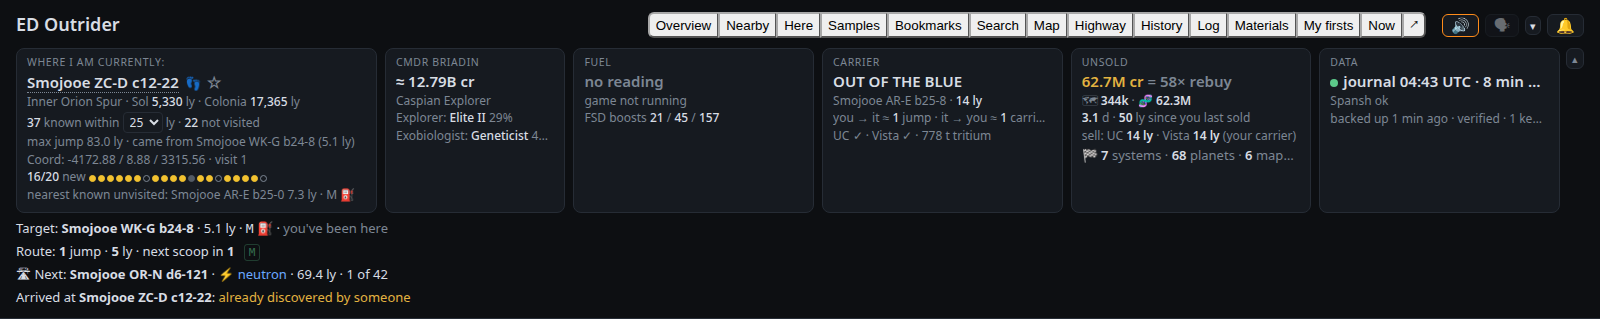
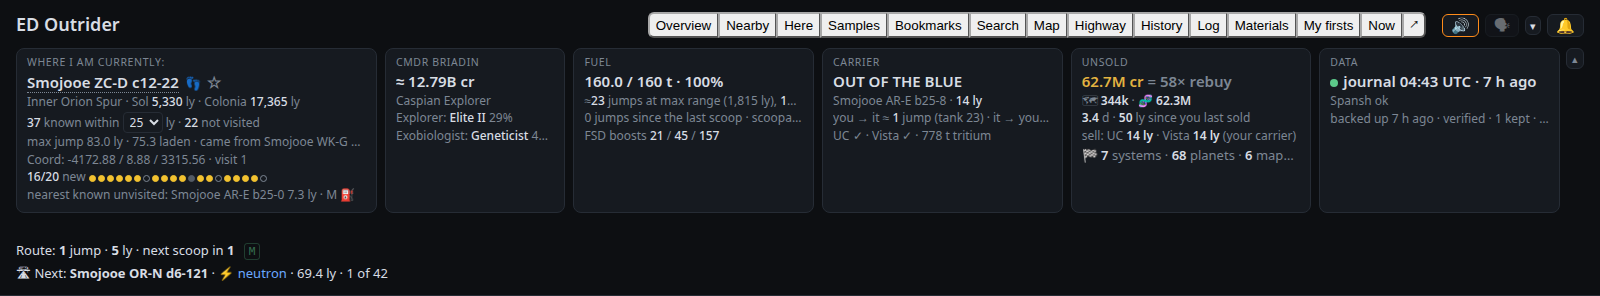
Here's bio column stays readable; --simulate for screenshots
- Here: a bio item ("Bacterium 3/3 ✓ 38.9M") no longer breaks inside
  itself, and a compact table shows a codex entry as 📖 ✦ with the name in
  its tooltip, so a body's row no longer grows to seven lines beside an
  open panel.
- --simulate: the panels show the last known values as if the game were
  running (fuel from the last reading, else the last jump, else a full
  tank; the Data tile doesn't flag the old journal). Display only: every
  guard reads the real Status.json, and the virtual keyboard, co-pilot
  button and clipboard are off.
- Screenshots regenerated with --simulate; docs updated.

diff --git a/tests/page_smoke.js b/tests/page_smoke.js
@@ -750,6 +750,14 @@ const base = `http://127.0.0.1:${port}/`; const sleep = ms => new Promise(r => s
       // F34: the codex mark names the region it is given
       o.region = bodyPopHtml({name: "B 1", type: "Planet", bio: 1, genera: [], organics: [], bio_guess: [],
         bio_options: {low: 1, high: 2, genera: [{genus: "Bacterium", value: 2, species: ["Aurasus"], codex_new: true}]}}, "Norma Arm").includes("new to your codex in Norma Arm");
+      // --simulate: the game reads as running with an hours-old journal, which is no fault (no red Data tile)
+      const fz = data.freshness, fst = data.status, oldJ = new Date(Date.now() - 5 * 3600000).toISOString();
+      data.status = "";   // offline here: "Spansh failed" would colour the tile whatever the journal's age
+      data.freshness = Object.assign({}, fz, {journal: oldJ, live: true, simulated: true}); renderStrip();
+      const simCls = document.getElementById("tData").className;
+      data.freshness = Object.assign({}, fz, {journal: oldJ, live: true, simulated: false}); renderStrip();
+      o.simFresh = !/urgent/.test(simCls) && /urgent/.test(document.getElementById("tData").className);
+      data.freshness = fz; data.status = fst; renderStrip();
       // F30, F33: a run under way prices the logged species; gravity reds at your high-g level
       const hd = hereData, hk = hereKey, hg = localStorage.getItem("highG");
       if (hd && !hd.error) {
@@ -758,14 +766,19 @@ const base = `http://127.0.0.1:${port}/`; const sleep = ms => new Promise(r => s
         const fake = Object.assign({}, b0, {name: "Fake 1", type: "Planet", subtype: "Rocky body", gravity: 1.8, bio: 1, genera: ["Stratum"],
           organics: [{genus: "Stratum", species: "Stratum Paleas", samples: 1, done: false, lost: false, value: 1362000}],
           bio_guess: [{genus: "Stratum", best: "Stratum Tectonicas", species: ["Stratum Tectonicas"], value: 19010800}],
-          value_parts: {bio_factor: 1}, codex: [], curiosities: [], geo: 0});
+          value_parts: {bio_factor: 1}, codex: [{name: "Stratum Paleas - Teal", new: true}], curiosities: [], geo: 0});
         hereData = Object.assign({}, hd, {bodies: [fake], tree: null}); renderHere();
         const row = document.querySelector('#hereRows tr[data-body="Fake 1"]');
+        // a bio item never breaks inside itself; the codex name has a short form of just 📖 ✦ for a compact table
+        const sps = row ? [...row.querySelectorAll("td.bio .sp")] : [], cx = sps.find(e => /^codex/.test(e.title));
+        o.hereWrap = sps.length >= 2 && sps.every(e => getComputedStyle(e).whiteSpace === "nowrap") && !!cx
+          && cx.title === "codex: Stratum Paleas - Teal" && cx.querySelector(".lf").textContent === "Stratum Paleas - Teal"
+          && cx.querySelector(".sf").textContent === "" && /✦/.test(cx.textContent);
         o.here = !!row && row.textContent.includes("1.4M") && !row.textContent.includes("Tectonicas?") && !row.textContent.includes("19.0M")
           && row.querySelectorAll("td")[3].classList.contains("noscoop");
         if (hg === null) localStorage.removeItem("highG"); else localStorage.setItem("highG", hg);
         hereData = hd; hereKey = hk; renderHere();
-      } else o.here = "no Here data";
+      } else { o.hereWrap = "no Here data"; o.here = "no Here data"; }
       // F39: injections at cap: nothing is "limiting"; 3 left: the short material is
       const md = matData;
       const mat = craftable => ({rows: [{id: "polonium", name: "Polonium", count: craftable, cap: 150}], snapshot_ts: "2026-01-01T00:00:00Z", ts: "2026-01-01T00:00:00Z",
@@ -845,7 +858,7 @@ const base = `http://127.0.0.1:${port}/`; const sleep = ms => new Promise(r => s
     w.setTimeout = realST; w.fetch = realFetch;
     w.eval("search = null; searchWant = 0; searchRefused = false; render()");
     w.speak = realSpeak; w.play = realPlay;
-    const want = {unwarned: null, kept: true, outage: true, spacing: true, spacing2: true, region: true, here: true, mat: true,
+    const want = {unwarned: null, kept: true, outage: true, spacing: true, spacing2: true, region: true, simFresh: true, hereWrap: true, here: true, mat: true,
                   streak: 2, nulls: ["{}", "ts"], impNull: "bioSort", saved: true, dock: "2026-01-01T01:00:00Z", hlRender: true, more: true};
     const want2 = {onbody: true, here: true, logError: null};
     const goodH = JSON.stringify(out) === JSON.stringify(want) && JSON.stringify(out2) === JSON.stringify(want2)

diff --git a/static/page.js b/static/page.js
@@ -393,7 +393,8 @@ function renderStrip() {
   let dot = "", text = "", tcls = "";
   if (fr && fr.journal) {
     const age = Math.max(0, (Date.now() - Date.parse(fr.journal)) / 60000);
-    const cls = fr.live && age > 10 ? "bad" : fr.live && age > 3 ? "warn" : "";
+    // a quiet journal with the game running is a fault; under --simulate (screenshots) the journal is old by design
+    const stale = fr.live && !fr.simulated, cls = stale && age > 10 ? "bad" : stale && age > 3 ? "warn" : "";
     dot = cls; tcls = cls === "bad" ? "urgent" : cls;
     text = `journal ${esc(fr.journal.slice(11, 16))} UTC` + (age >= 1 ? ` · ${age < 90 ? Math.round(age) + " min" : Math.round(age / 60) + " h"} ago` : "") + (fr.live ? "" : " · game off");
   } else text = fr && !fr.dirs.length ? "no journal folder — pass --journals" : "waiting for a journal";
@@ -2605,7 +2606,8 @@ function renderHere() {
       bio.push((bio.length ? "<br>" : "") + `<span class="unk">${dual(unk.label, unkShort)}</span>` + (gl.length
         ? `<br><span class="unk">${opt ? dual(`${optLabel(unk.n, opt, f)}: `, `${credits(opt.low * f)}–${credits(opt.high * f)}: `) : dual("likely: ", "", {title: false})}</span>${gl.map(x => `<span class="sp" title="${esc(x.species.join(" / "))}">${esc(x.genus)} ≤${credits((x.value || 0) * f)}${codexMark(x, h.region)}</span>`).join(opt ? `<span class="unk"> or </span>` : "")}` : ""));
     }
-    const codex = b.codex.map(c => `<span class="sp" title="codex">📖 ${esc(c.name)}${c.voucher ? " 💰" : c.new ? " ✦" : ""}</span>`).join("");
+    // the codex name ("Bacterium Volu - Gold") repeats the run's species: a compact table shows only 📖 and its mark
+    const codex = b.codex.map(c => `<span class="sp" title="codex: ${esc(c.name)}">📖 ${dual(esc(c.name), "", {title: false})}${c.voucher ? " 💰" : c.new ? " ✦" : ""}</span>`).join("");
     const firsts = [b.first_discovered && `<span class="fl" title="first discovered">🏁</span>`, b.first_mapped && `<span class="fl" title="first mapped">🗺</span>`,
                     !b.first_mapped && b.mapped && `<span class="fl unk" title="mapped (not first)">🗺</span>`,
                     b.first_footfall && `<span class="fl" title="first footfall">👣</span>`, !b.scanned && `<span class="unk" title="known to Spansh, not scanned by you">—</span>`].filter(Boolean).join("");

diff --git a/static/page.css b/static/page.css
@@ -64,7 +64,7 @@ tr.scoopnext td.name::after { content: " ⛽ nearest scoopable"; color: var(--go
 #hereHead { font-size: 15px; margin: 12px 0 4px; } #hereHead b { color: var(--accent); }
 #hereLeaving { font-size: 13px; margin-bottom: 8px; } #hereLeaving .ok { color: var(--good); } #hereLeaving .todo { color: var(--warn); }
 #hereTable td.bio { white-space: normal; font-size: 12px; max-width: 320px; }
-#hereTable .sp { display: inline-block; margin-right: 6px; } #hereTable .sp.done { color: var(--good); } #hereTable .sp.part { color: var(--warn); }
+#hereTable .sp { display: inline-block; margin-right: 6px; white-space: nowrap; }   /* "Bacterium 3/3 ✓ 38.9M" wraps between items, not inside one */ #hereTable .sp.done { color: var(--good); } #hereTable .sp.part { color: var(--warn); }
 #hereTable .fl { margin-right: 4px; }
 tr.main td { font-weight: 500; }
 #histView { margin-top: 12px; } #histView .exports a { color: var(--info); }

diff --git a/ed_outrider.py b/ed_outrider.py
@@ -102,7 +102,8 @@ reported to Spansh or EDSM -- almost certainly undiscovered.
 Journal folders are auto-detected (Windows save folder, every Steam library's Proton prefix,
 mounted Windows drives for older journals); --journals / --legacy / ED_JOURNALS override. Files
 are remembered by path and byte offset, so a restart only reads what is new; legacy folders are
-imported once. Pass --rescan to rebuild everything from scratch.
+imported once. Pass --rescan to rebuild everything from scratch. --simulate (screenshots, demos) shows the
+panels as if the game were running, with the last known values, and keeps every key-pressing part off.
 
 Settings come from ed_outrider.toml next to this script (see ed_outrider.toml.example; make one with
 --write-config); flags and ED_JOURNALS override it, and nothing is required. Relative paths in it are
@@ -382,6 +383,18 @@ class ScoopWatch:
 def fire_group_letter(group):
     """Status.json FireGroup (0, 1, ...) as the letter the game shows (A, B, ...); None when unknown."""
     return chr(65 + group) if isinstance(group, int) and not isinstance(group, bool) and 0 <= group < 26 else None
+
+
+def simulate_settings(st):
+    """--simulate (screenshots and demos): the settings with the co-pilot button and the clipboard off."""
+    return dict(st, copilot=dict(st["copilot"], enabled=False), highway=dict(st["highway"], clipboard=False))
+
+
+def simulate_keyboard_off(honker):
+    """--simulate: no virtual keyboard at all, so every open, press, test and auto-target run is refused (the page
+    acts as if the game were running, and nothing may press a key into whatever window has focus)."""
+    honker.evdev, honker.status = None, "off (--simulate)"
+    return honker
 
 
 def status_fresh(status, now):
@@ -4855,6 +4868,7 @@ class State:
         self.sounds = outrider.tts.SoundBank()   # static/sounds.json rendered to WAV for it
         self.speech = None         # outrider.speech.SpeechLines, set at start (None in tests)
         self.honker = None         # outrider.honk.Honker, set at start (None in tests)
+        self.simulate = False      # --simulate: the panels act as if the game were running (shown_status)
         self.button = None         # outrider.button.ButtonWatch when [copilot] enabled (None otherwise and in tests)
         # the voice's hush ({mode, until, sys}): here, not per browser, so the co-pilot button, a tablet and the
         # window that is speaking all see the same one. In memory only: a restart ends it
@@ -5013,7 +5027,8 @@ class State:
             # read: moves with every journal line consumed (the Log tails on it; journal is to the second)
             "freshness": {"journal": self.journals.last_event_ts, "read": sum(self.journals.offsets.values()),
                           "status": (self.journals.status_json or {}).get("ts"),
-                          "live": bool((self.journals.status_json or {}).get("live")),
+                          "live": bool(self.shown_status().get("live")),
+                          "simulated": bool(self.shown_status().get("simulated")),   # --simulate: an old journal is no fault
                           "dirs": LIVE_DIRS, "legacy": LEGACY_DIRS},
             "docked": self.docked_summary(),
             # the last Docked event's ts even while Status.json says you are not docked (out in the SRV at a
@@ -5930,11 +5945,28 @@ class State:
                 "boosts": outrider.materials.boosts(m["counts"]), "count": sum(m["counts"].values()),
                 "stale": materials_stale(m, self.journals.commander)}
 
+    def shown_status(self):
+        """Status.json as the panels show it. With --simulate (screenshots, demos) and the game not running: the last
+        known values as if it were, in the ship's seat, with the fuel of the last reading, else of the last jump, else
+        a full tank. Only the display reads this; auto honk, auto-target, the scoop and surface checks and every other
+        guard read the real Status.json (and --simulate turns the virtual keyboard off besides)."""
+        j = self.journals
+        st = j.status_json or {}
+        if not self.simulate or st.get("live"):
+            return st
+        fuel = st.get("fuel_main")
+        if fuel is None:   # the last jump's FuelLevel: fuel_hist rows are [jump ly, fuel t, fuel left t, cargo t]
+            fuel = next((h[2] for h in reversed(j.fuel_hist) if len(h) > 2 and h[2] is not None), None)
+        if fuel is None:
+            fuel = (j.ship or {}).get("fuel_main")
+        return dict(st, live=True, simulated=True, fuel_main=fuel, away=None, vehicle_fuel=None,
+                    flags=st.get("flags") or (1 << 24))   # InMainShip
+
     def fuel_now(self):
         """(model, fuel t, cargo t) for the fuel model right now, or None: no Loadout mass, no reading, or no cargo
         figure (Status.json's, else the journal's Cargo). The cargo counts, since a hold of 700 t cuts the range."""
         j = self.journals
-        st = j.status_json or {}
+        st = self.shown_status()
         model = fuel_model(j.ship, j.fuel_hist)
         cargo = st.get("cargo") if st.get("cargo") is not None else (j.cargo or {}).get("count")
         if not model or st.get("fuel_main") is None or cargo is None:
@@ -6013,7 +6045,7 @@ class State:
 
     def fuel_summary(self):
         j = self.journals
-        st, ship = j.status_json, j.ship or {}
+        st, ship = self.shown_status(), j.ship or {}
         if not st or st.get("fuel_main") is None:   # no reading yet (or on foot before any)
             return {"live": False}
         cap = ship.get("fuel_main")
@@ -10474,11 +10506,18 @@ async def run(args, st):
         "off ([speech] server_player)" if state.player.choice == "off" else
         f"{st['server_player']} not found" if state.player.choice != "auto" else
         "no player found (pw-play, paplay, aplay or ffplay)")))
+    state.simulate = bool(getattr(args, "simulate", False))
+    if state.simulate:
+        st = simulate_settings(st)
+        print("simulate: the panels show the last known values as if the game were running; auto honk, auto-target, "
+              "the co-pilot button and the clipboard are off")
     state.autohonk = dict(st["autohonk"])
     saved = meta_get(db, "autohonk_enabled")   # the page's toggle beats the config file once used
     if saved is not None:
         state.autohonk["enabled"] = bool(saved)
     state.honker = outrider.honk.Honker(state.autohonk["key"], state.autohonk["hold"], LIVE_DIRS)
+    if state.simulate:
+        simulate_keyboard_off(state.honker)
     if state.autohonk["enabled"]:
         state.honker.open()
     print("auto honk: " + (state.honker.status if state.autohonk["enabled"] else "off")
@@ -10611,6 +10650,9 @@ def main(argv=None):
                    help="Put the database (and browser_defaults.json) back from a backup zip, the newest in "
                         "backup_dir if none is given, and exit. Refuses while Outrider is running; the current "
                         "database is kept as <db>.pre-restore-<stamp>.")
+    p.add_argument("--simulate", action="store_true",
+                   help="For screenshots and demos: the panels show the last known values (fuel...) as if the game "
+                        "were running. Auto honk, auto-target, the co-pilot button and the clipboard are off.")
     p.add_argument("--list-backups", action="store_true",
                    help="List this database's backup zips in backup_dir (name, size, time) and exit.")
     args = p.parse_args(argv)

diff --git a/tests/test_units.py b/tests/test_units.py
@@ -4042,6 +4042,47 @@ class BatchAIntegrity(unittest.TestCase):
         self.assertEqual((st["fuel_main"], st["cargo"], st["away"]), (150.2, 3, None))
         self.assertIsNone(st["vehicle_fuel"])
 
+    def test_simulate_shows_the_last_values_as_live(self):
+        """--simulate (screenshots): with the game closed the panels read as live, with the last jump's fuel, while
+        the real Status.json, which every guard reads, still says the game is not running."""
+        state = ed_outrider.State(self.db, self.j, None, 25)
+        self.j.status_json = {"live": False, "ts": "2026-10-02T00:00:00Z"}
+        self.j.ship = {"fuel_main": 160}
+        self.j.fuel_hist = [[40.0, 2.0, 150.5, 0], [42.0, 2.2, 148.3, 0]]
+        self.assertFalse(state.fuel_summary()["live"])                      # off: the truth
+        self.assertFalse(state.payload()["freshness"]["live"])
+        state.simulate = True
+        f = state.fuel_summary()
+        self.assertEqual((f["live"], f["main"], f["pct"], f["in_ship"], f["vehicle"]), (True, 148.3, 93, True, None))
+        self.assertTrue(state.payload()["freshness"]["live"])
+        self.assertTrue(state.payload()["freshness"]["simulated"])   # the page then shows an old journal as no fault
+        self.assertFalse(self.j.status_json["live"])                         # the guards' view is untouched
+        self.j.fuel_hist = []                                                # no jump yet: a full tank
+        self.assertEqual(state.fuel_summary()["main"], 160)
+        self.j.status_json = {"live": False, "fuel_main": 99.0, "ts": "2026-10-02T00:00:00Z"}   # a reading this run
+        self.assertEqual(state.fuel_summary()["main"], 99.0)
+        self.j.status_json = {"live": True, "fuel_main": 12.0, "flags": 1 << 24}           # the game running wins
+        self.assertEqual(state.shown_status(), self.j.status_json)
+
+    def test_simulate_turns_the_keyboard_off(self):
+        """--simulate never presses a key: run() makes the virtual keyboard unavailable before anything opens it, so
+        auto honk, its test, auto-target and its test are all refused."""
+        h = ed_outrider.simulate_keyboard_off(outrider_honk().Honker("auto", 6.0, []))
+        self.assertFalse(h.available)
+        self.assertFalse(h.open())
+        self.assertFalse(h.open("target"))
+        state = ed_outrider.State(self.db, self.j, None, 25)
+        state.honker = h
+        body, status = state.start_honk_test()
+        self.assertEqual((status, body["error"]), (400, "off (--simulate)"))
+        st = {"copilot": {"enabled": True, "device": "x"}, "highway": {"clipboard": True, "autotarget": True}, "port": 1}
+        sim = ed_outrider.simulate_settings(st)
+        self.assertEqual((sim["copilot"]["enabled"], sim["highway"]["clipboard"], sim["port"]), (False, False, 1))
+        self.assertTrue(st["copilot"]["enabled"])   # a copy: the settings passed in are unchanged
+        import subprocess   # the flag is on the command line (--help prints and exits before anything starts)
+        out = subprocess.run([sys.executable, ed_outrider.__file__, "--help"], capture_output=True, text=True, timeout=60)
+        self.assertIn("--simulate", out.stdout)
+
     def test_nomad_launch_names_the_vehicle(self):
         self.j.handle({"event": "LaunchVessel", "timestamp": "2026-10-01T00:00:00Z", "VesselType": "lander01",
                        "VesselType_Localised": "Nomad", "ID": 49, "PlayerControlled": True})

diff --git a/docs/DESIGN_NOTES.md b/docs/DESIGN_NOTES.md
@@ -86,6 +86,12 @@ upstream project's choices, not rules of the game.
   (40 ly per pixel at 2250 px, Sol at pixel 1125, 1750).
 - **Landmarks are fixed:** Sol, Sagittarius A*, Colonia and Beagle Point at EDSM's locked coordinates, and your carrier
   where the journals put it.
+- **`--simulate` is display only.** For screenshots and demos the panels read as if the game were running, with the
+  last known values (fuel from the last reading, else the last jump, else a full tank; the Data tile doesn't flag the
+  old journal). Nothing is invented (a target the game cleared stays cleared), every guard still reads the real
+  Status.json, and the virtual keyboard, the co-pilot button and the clipboard are off whatever the config says.
+- **Here's bio items never break inside themselves,** and a compact table shows a codex entry as 📖 ✦ with the name
+  in its tooltip (the run beside it already names the species), so a row stays one or two lines beside an open panel.
 - **The README stays short and user-facing;** implementation detail lives in code comments and these notes.
 
 ## Known limits

diff --git a/docs/AGENT_GUIDE.md b/docs/AGENT_GUIDE.md
@@ -98,7 +98,10 @@ Ids: a system id64 can exceed 2^53, so the page compares the string `id` fields,
     `[speech] server_player = "off"`, `[spansh] watch_firsts = false`, `[autohonk] enabled = false`,
     `[copilot] enabled = false`;
   - pick a spare port (`--port 8939 --host 127.0.0.1`) and stop the server by its PID, never with
-    `pkill -f` (which can match your own shell).
+    `pkill -f` (which can match your own shell);
+  - for screenshots add `--simulate`: the panels read as if the game were running, with the last known values
+    (`State.shown_status`, used only by the display: the fuel tile, the range, the Data tile's freshness), and the
+    virtual keyboard, the co-pilot button and the clipboard are off whatever the config or the page says.
 - **Never** point tests or scratch servers at your own running Outrider (port 8025 by default) or at your real
   `data/` (`ed_outrider.sqlite`, backups) / `ed_outrider.toml`. Use copies and a spare port.
 - A scratch server reads journals read-only. If you point it at your real journal folder while the game is

diff --git a/docs/CHANGELOG.md b/docs/CHANGELOG.md
@@ -2,6 +2,13 @@
 
 Newest first, one entry per commit.
 
+## 2026-10-02 · Here's bio column stays readable; --simulate for screenshots
+- Here: a bio item ("Bacterium 3/3 ✓ 38.9M") no longer breaks inside itself, and a compact table shows a codex
+  entry as 📖 ✦ (the name in its tooltip), so a body's row no longer grows to seven lines beside an open panel.
+- `--simulate`: the panels show the last known values as if the game were running (fuel from the last reading,
+  else the last jump, else a full tank), for screenshots and demos. Only the display reads it; the virtual
+  keyboard, the co-pilot button and the clipboard are off. Screenshots regenerated with it.
+
 ## 2026-10-02 · The Highway: auto-target the next system; vehicle fuel; a shorter README
 - **Auto-target** replaces the stub (Linux, off by default): after an FSD supercharge in a route system and
   `autotarget_delay` s, Outrider presses keys through auto honk's virtual keyboard to open the galaxy map, search for

diff --git a/README.md b/README.md
@@ -524,6 +524,7 @@ Command-line flags override the file for a single run:
 | `--journals PATH`, `--legacy PATH` | Journal folders to follow, or older ones to import once (repeatable) |
 | `--rescan` | Rebuild from the journals, keeping the Spansh cache |
 | `--restore [ZIP]`, `--list-backups` | See Backups |
+| `--simulate` | For screenshots and demos: the panels show the last known values (fuel...) as if the game were running; auto honk, auto-target, the co-pilot button and the clipboard are off |
 
 **Opening the page from another device.** Outrider listens on 127.0.0.1 only unless `[server] host` says
 otherwise (`"0.0.0.0"` for your network). It answers to any IP address, but by name only to `localhost`,
